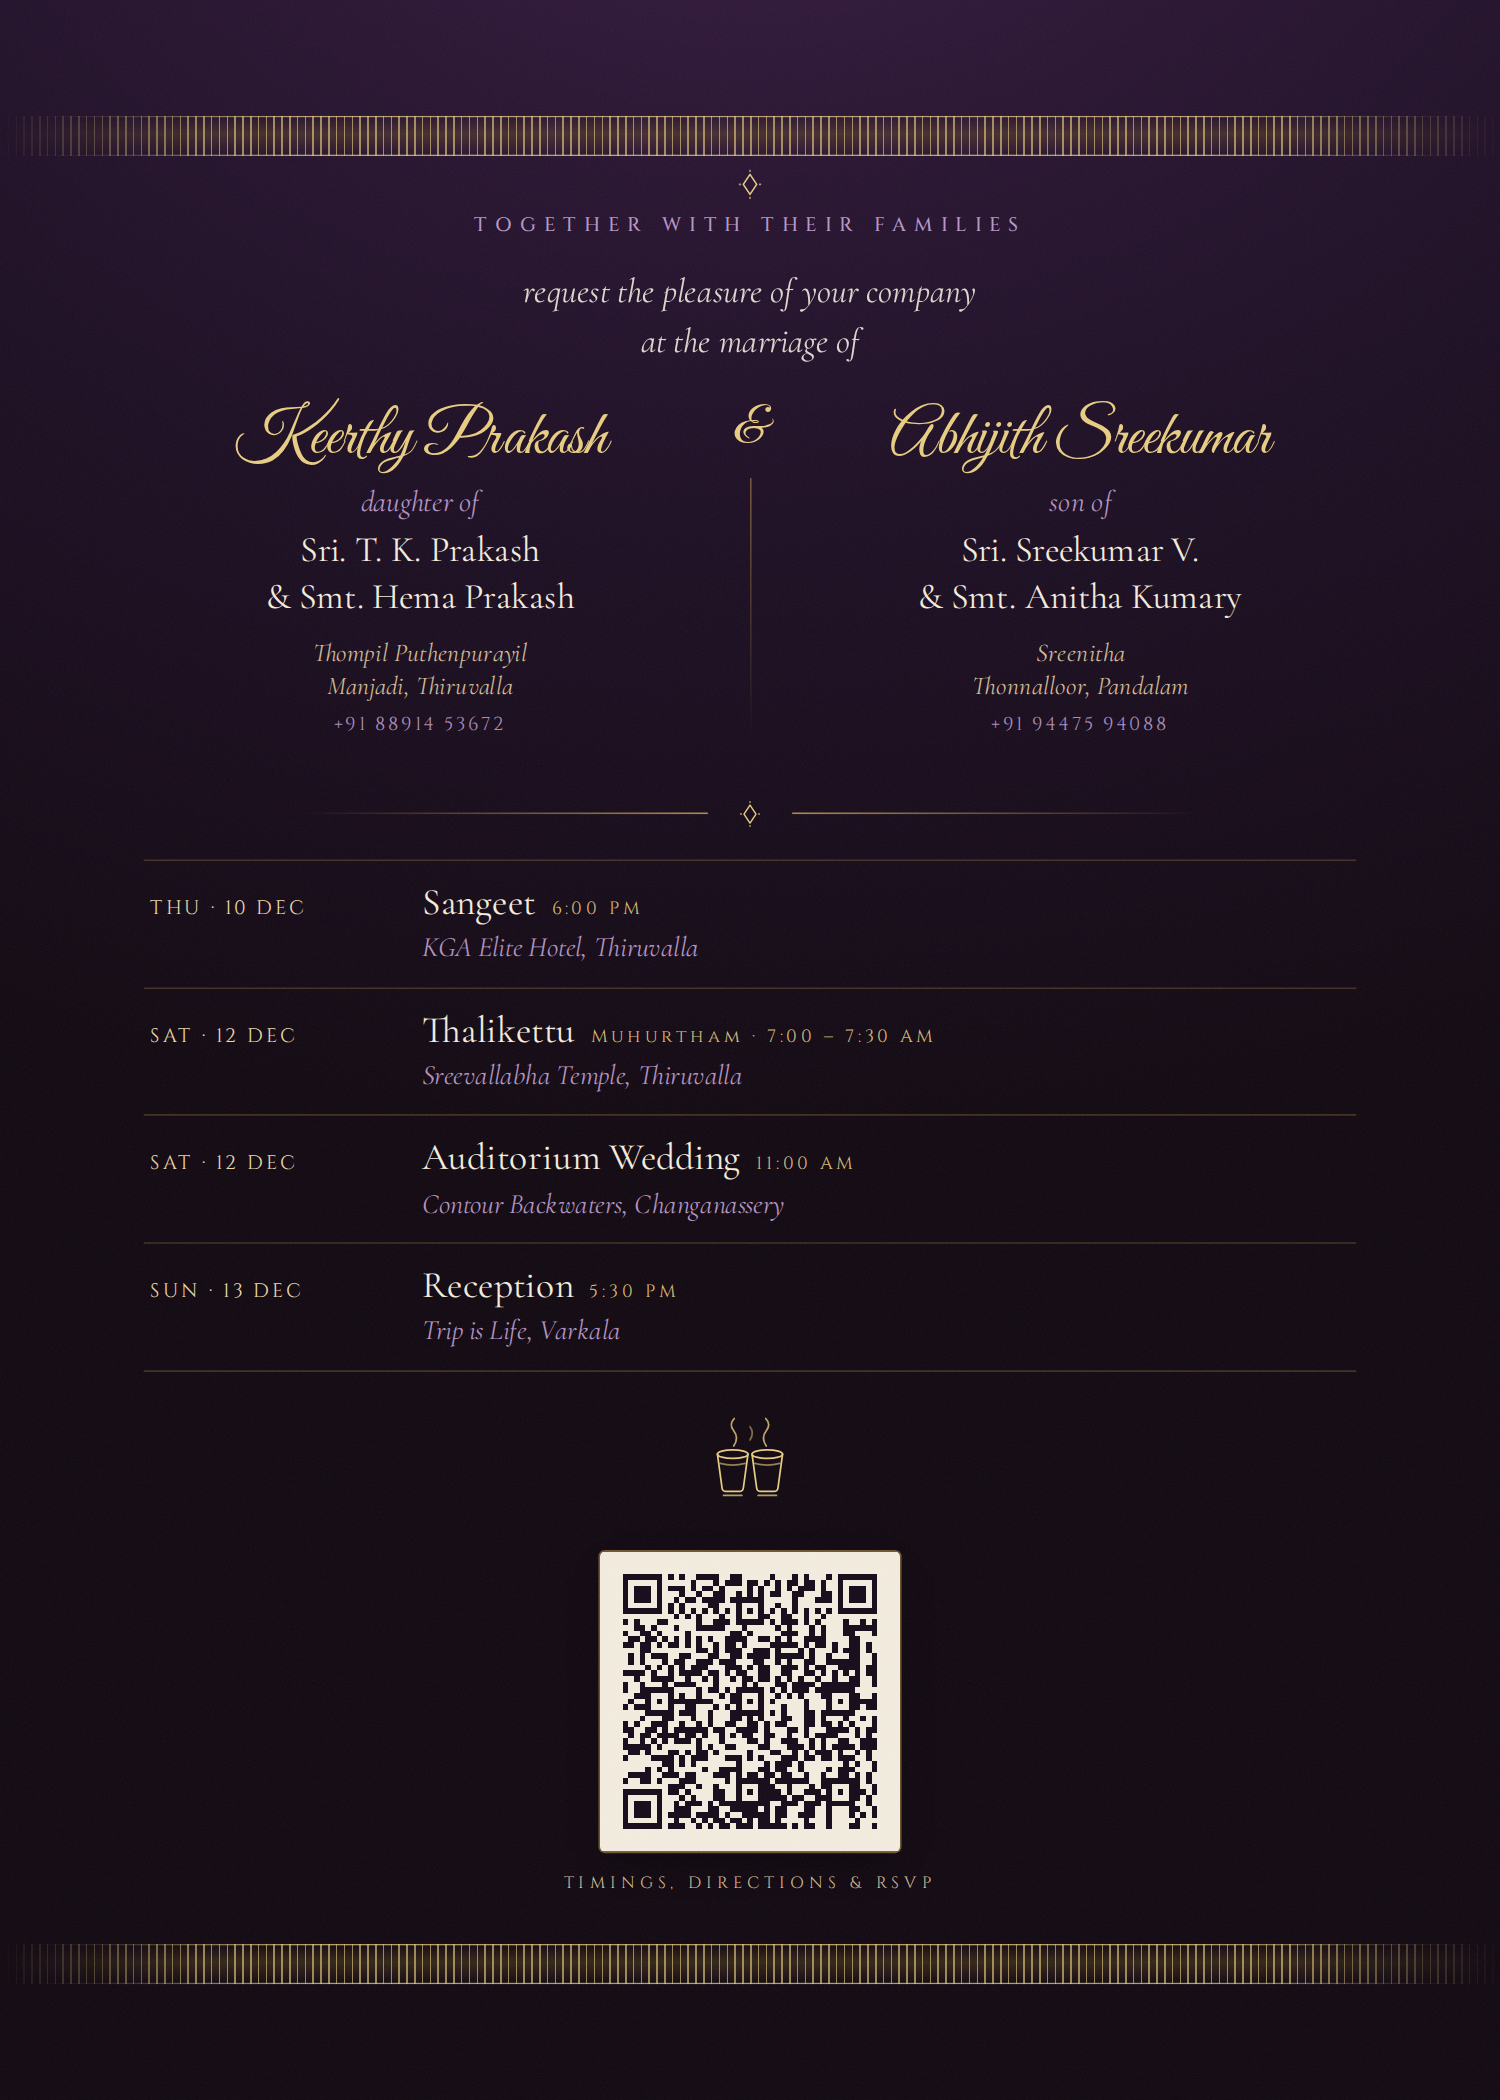
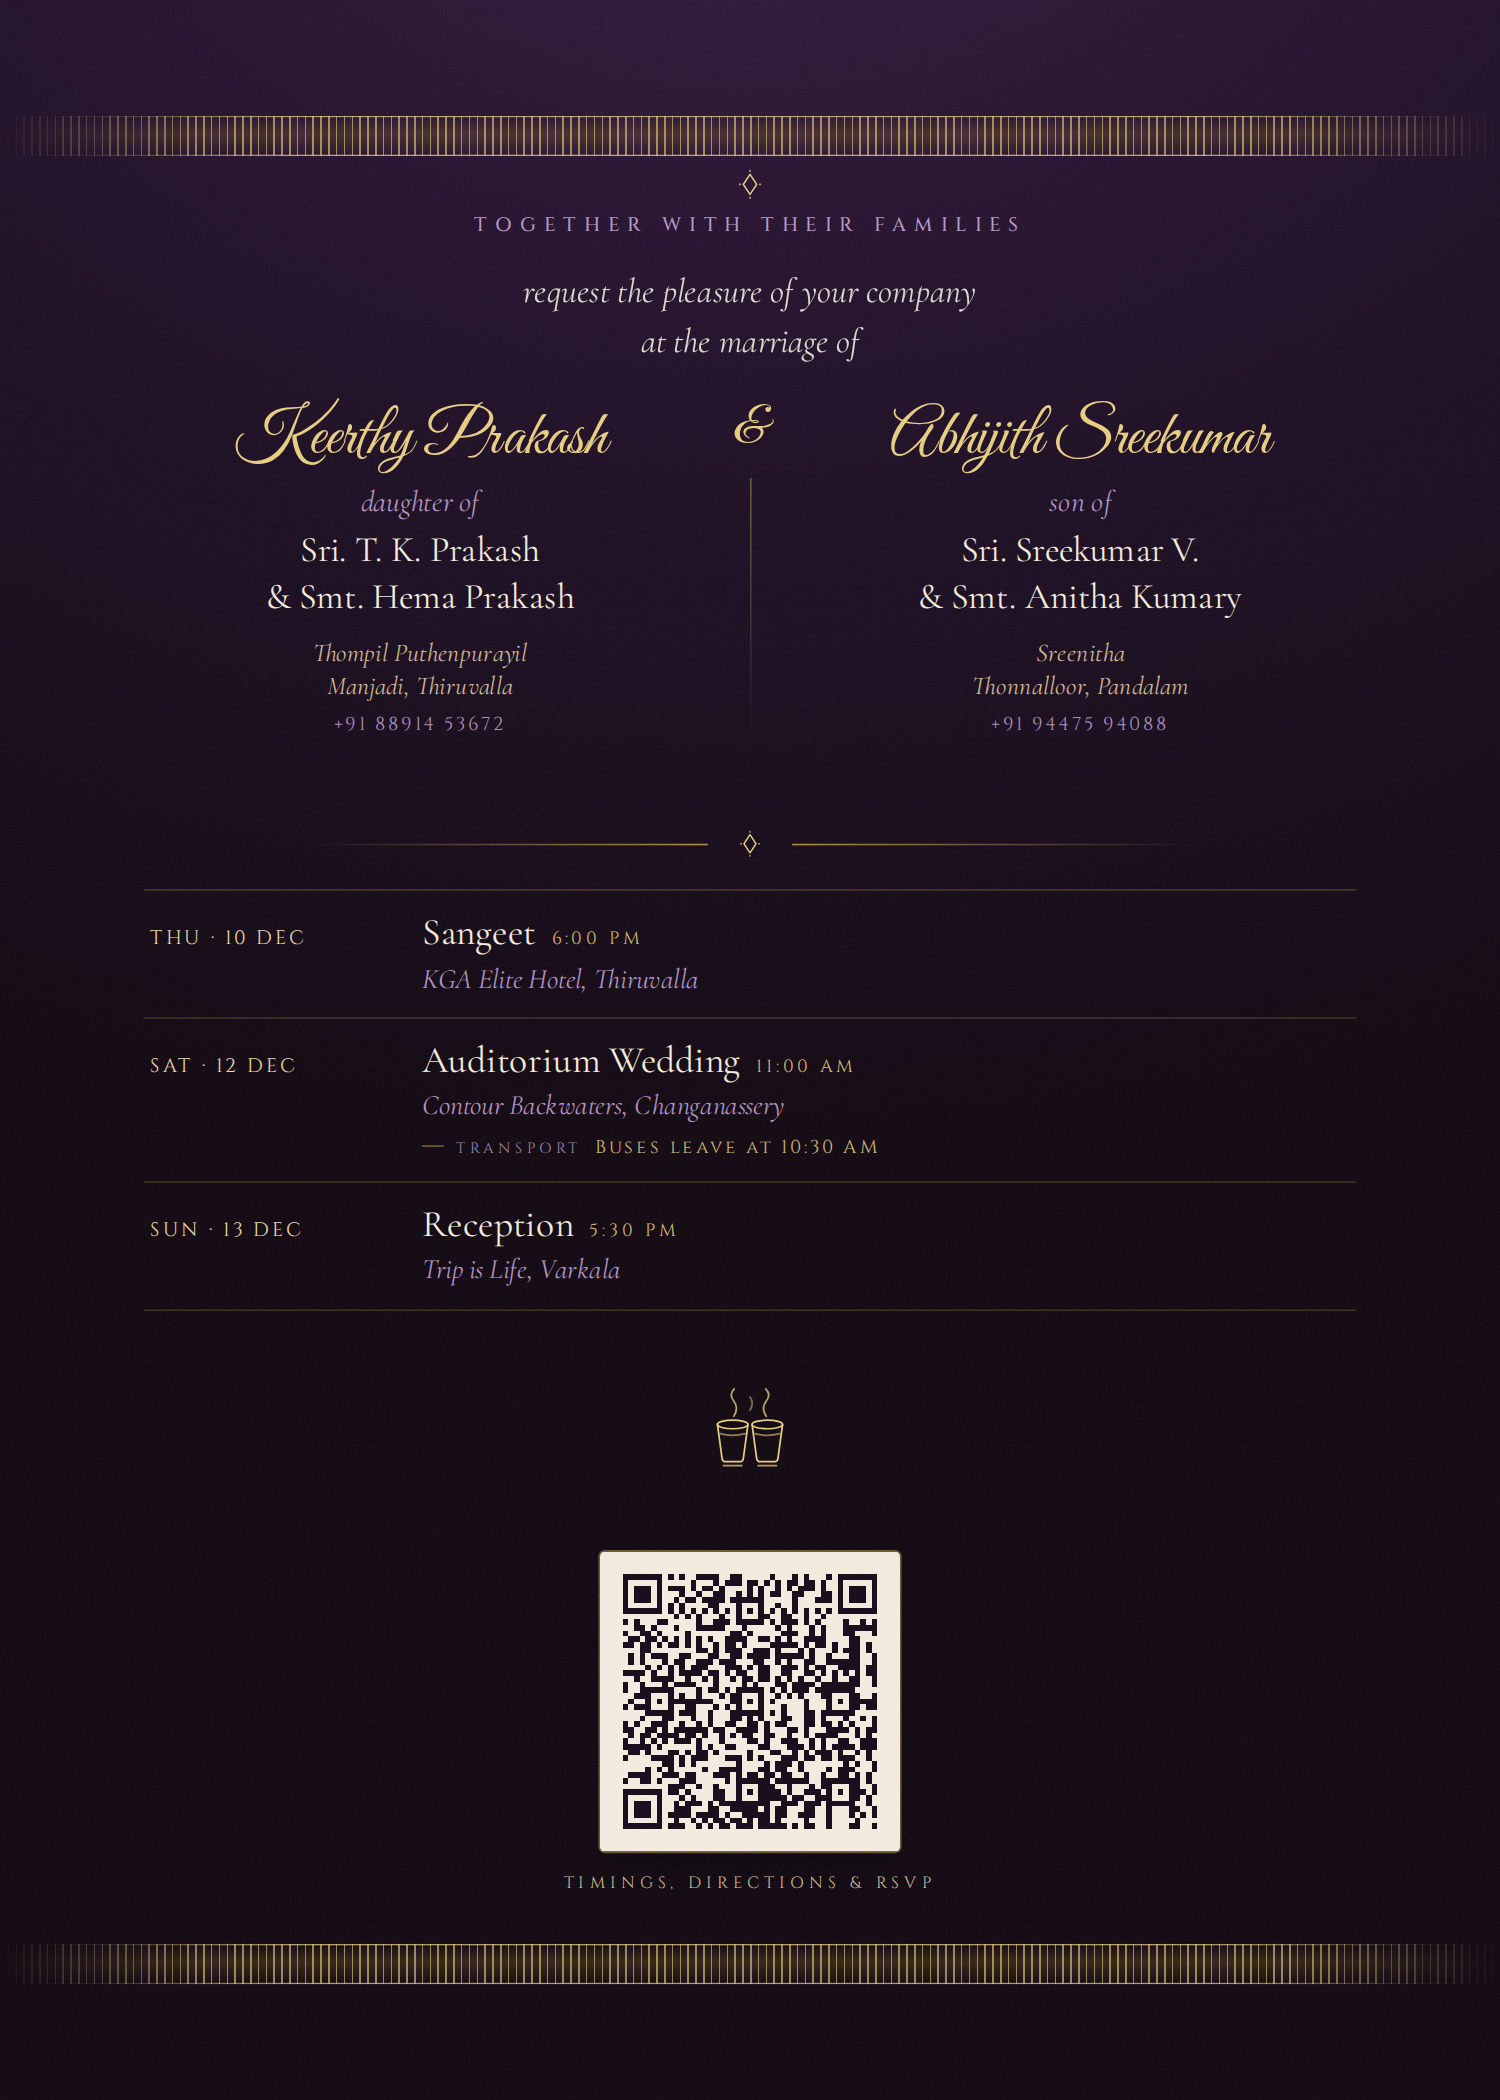
Take Thalikettu off the invitation, add the bus times
The temple ceremony is a private family occasion and does not belong on a
card that gets handed out, so both card backs drop it.

Adds a transport line to the 12 December event carrying the time that
family's buses leave — 10:30 AM on the bride's printing, 9:30 AM on the
groom's, since the two sides set off from their own side. It sits inside the
event row rather than in a block of its own so there is no doubt which day
the bus belongs to.

Without Thalikettu the wedding-day card is down to a single ceremony, and a
left-hand time-of-day column against one row read as a table with its other
rows missing — it also just repeated the date standing above it. That card
now centres its one event under the heading.

Claude-Session: https://claude.ai/code/session_01U3eNzvzbkYwe2F9QhNWExs

diff --git a/invitation/card-back.css b/invitation/card-back.css
@@ -215,3 +215,59 @@
   color: rgba(236, 217, 171, 0.88);
 }
 
+
+/* --- transport -----------------------------------------------------------
+   Buses run to the Changanassery venue, and the two families set off from
+   their own side at different times — so this line differs between the
+   bride's and groom's printings. `.only-bride` / `.only-groom` in shared.css
+   do the switching; both are always in the markup and one is hidden.
+
+   It sits inside the event row rather than in a block of its own, so there is
+   no doubt which of the days the bus belongs to. */
+.transport {
+  display: flex;
+  align-items: baseline;
+  gap: 9px;
+  margin-top: 7px;
+  font-family: var(--font-label);
+  font-size: 12px;
+  letter-spacing: 0.15em;
+  color: rgba(232, 205, 130, 0.9);
+}
+
+.transport .t-head {
+  text-transform: uppercase;
+  font-size: 9.5px;
+  letter-spacing: 0.28em;
+  color: rgba(198, 165, 216, 0.8);
+  /* a hairline rule in front of the word, so the note reads as an aside to
+     the event above it rather than as another line of the address */
+  padding-left: 22px;
+  position: relative;
+}
+.transport .t-head::before {
+  content: "";
+  position: absolute;
+  left: 0;
+  top: 0.42em;
+  width: 14px;
+  height: 1px;
+  background: rgba(203, 162, 77, 0.55);
+}
+
+/* --- a card with one event ------------------------------------------------
+   The wedding-day card lists a single ceremony now that Thalikettu is off the
+   invitation. A left-hand "LATE MORNING" column against one row reads as a
+   table missing its other rows, and it only repeats the date already standing
+   above it — so that column goes and the row centres under the heading. */
+.events.single .ev {
+  grid-template-columns: 1fr;
+  text-align: center;
+  padding: 20px 4px 22px;
+}
+.events.single .ev .day {
+  display: none;
+}
+.events.single .transport {
+  justify-content: center;
+}

diff --git a/invitation/card-back-public.html b/invitation/card-back-public.html
@@ -51,19 +51,19 @@
 
       <p class="label day-head">Saturday &middot; 12 December 2026</p>
 
-      <div class="events">
-        <div class="ev">
-          <span class="day">Morning</span>
-          <span>
-            <span class="what">Thalikettu<span class="time">Muhurtham &middot; 7:00 &ndash; 7:30 AM</span></span>
-            <span class="venue">Sreevallabha Temple, Thiruvalla</span>
-          </span>
-        </div>
+      <div class="events single">
         <div class="ev">
           <span class="day">Late morning</span>
           <span>
             <span class="what">Reception<span class="time">11:00 AM</span></span>
             <span class="venue">Contour Backwaters, Changanassery</span>
+            <div class="transport">
+              <span class="t-head">Transport</span>
+              <!-- Each family's guests set off from their own side, so the two
+                   printings carry different times. -->
+              <span class="only-bride">Buses leave at 10:30 AM</span>
+              <span class="only-groom">Buses leave at 9:30 AM</span>
+            </div>
           </span>
         </div>
       </div>

diff --git a/invitation/card-back-all.html b/invitation/card-back-all.html
@@ -60,15 +60,15 @@
         <div class="ev">
           <span class="day">Sat &middot; 12 Dec</span>
           <span>
-            <span class="what">Thalikettu<span class="time">Muhurtham &middot; 7:00 &ndash; 7:30 AM</span></span>
-            <span class="venue">Sreevallabha Temple, Thiruvalla</span>
-          </span>
-        </div>
-        <div class="ev">
-          <span class="day">Sat &middot; 12 Dec</span>
-          <span>
             <span class="what">Auditorium Wedding<span class="time">11:00 AM</span></span>
             <span class="venue">Contour Backwaters, Changanassery</span>
+            <div class="transport">
+              <span class="t-head">Transport</span>
+              <!-- Each family's guests set off from their own side, so the two
+                   printings carry different times. -->
+              <span class="only-bride">Buses leave at 10:30 AM</span>
+              <span class="only-groom">Buses leave at 9:30 AM</span>
+            </div>
           </span>
         </div>
         <div class="ev">
